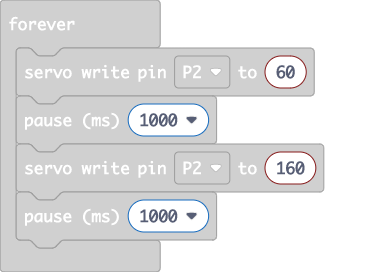
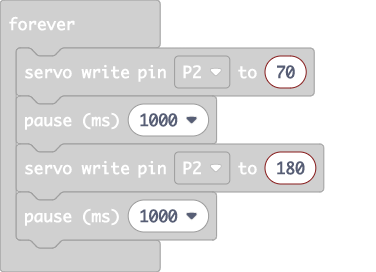
angle to be specified between 70 and 180, angle larger than 180, the servo may not work

diff --git a/main.ts b/main.ts
@@ -1,6 +1,6 @@
 basic.forever(function () {
-    pins.servoWritePin(AnalogPin.P2, 60)
+    pins.servoWritePin(AnalogPin.P2, 70)
     basic.pause(1000)
-    pins.servoWritePin(AnalogPin.P2, 160)
+    pins.servoWritePin(AnalogPin.P2, 180)
     basic.pause(1000)
 })
